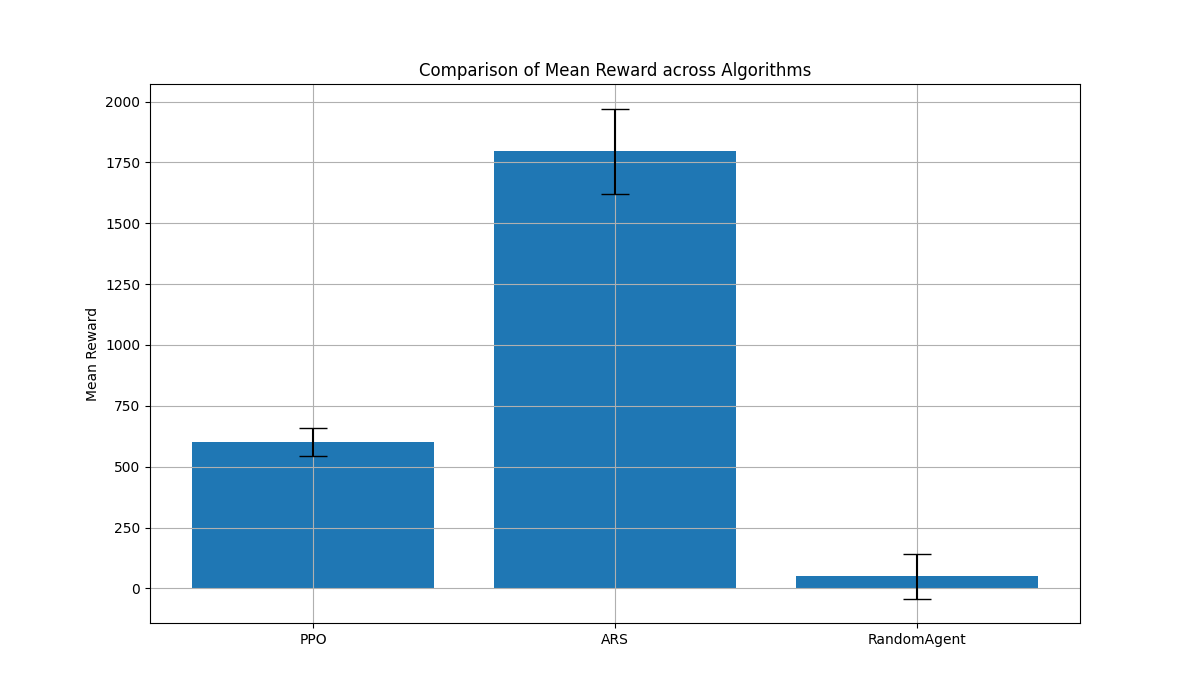
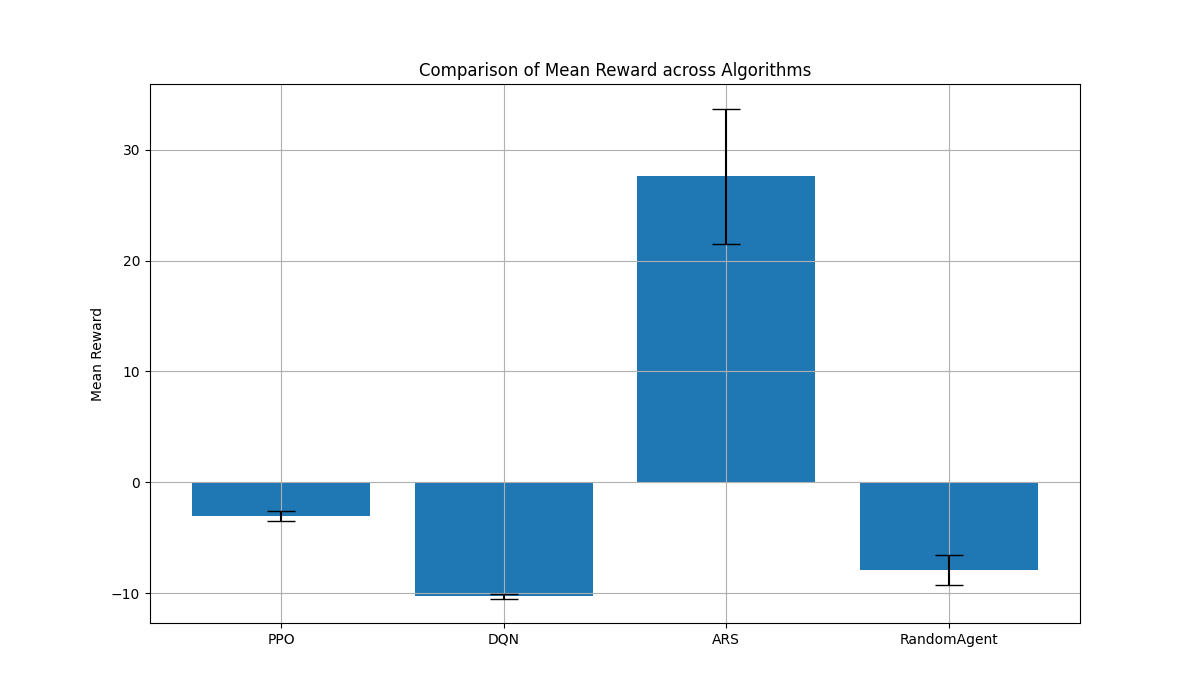
update reward irrigation

diff --git a/train.py b/train.py
@@ -5,6 +5,7 @@ from stable_baselines3 import PPO, DQN
 from stable_baselines3.common.vec_env import DummyVecEnv
 from stable_baselines3.common.callbacks import BaseCallback
 from stable_baselines3.common.evaluation import evaluate_policy
+from stable_baselines3.common.monitor import Monitor
 from sb3_contrib import ARS
 from aquacroprice.envs.rice import Rice
 
@@ -33,22 +34,22 @@ class RewardLoggingCallback(BaseCallback):
         if 'dones' in self.locals and any(self.locals['dones']):
             # Retrieve total irrigation at the end of the episode
             env = self.locals['env'].envs[0]
-            total_irrigation = env.model._outputs.final_stats['Seasonal irrigation (mm)'].mean()
+            total_irrigation = env.unwrapped.model._outputs.final_stats['Seasonal irrigation (mm)'].mean()
 
             # Log data at the end of the episode
             self.episode_rewards.append(self.current_rewards)
-            self.episode_schedules.append(env.irrigation_schedule)  # Store irrigation schedule
+            self.episode_schedules.append(env.unwrapped.irrigation_schedule)  # Store irrigation schedule
 
             # Check if this episode has the highest reward so far
             if self.current_rewards > self.highest_reward:
                 self.highest_reward = self.current_rewards
-                self.best_schedule = env.irrigation_schedule.copy()  # Store the best schedule
+                self.best_schedule = env.unwrapped.irrigation_schedule.copy()  # Store the best schedule
 
             self.experiment.log_metric("reward", self.current_rewards, step=len(self.episode_rewards))
 
             # Reset counters for the next episode
             self.current_rewards = 0
-            env.irrigation_schedule = []  # Clear schedule for next episode
+            env.unwrapped.irrigation_schedule = []  # Clear schedule for next episode
 
         return True
 
@@ -88,7 +89,7 @@ experiment = OfflineExperiment(
 )
 
 # Create the environment for training
-train_env = DummyVecEnv([lambda: Rice(mode='train', year1=1982, year2=2002)])
+train_env = DummyVecEnv([lambda: Monitor(Rice(mode='train', year1=1982, year2=2002))])
 
 # Custom reward logging callback
 reward_logging_callback = RewardLoggingCallback(experiment)
@@ -125,7 +126,7 @@ for name, model in algorithms.items():
     model.learn(total_timesteps=train_timesteps, callback=reward_logging_callback)
     
     # Create the environment for evaluation
-    eval_env = DummyVecEnv([lambda: Rice(mode='eval', year1=2003, year2=2018)])
+    eval_env = DummyVecEnv([lambda: Monitor(Rice(mode='eval', year1=2003, year2=2018))])
     
     print(f"Evaluating {name}...")
     mean_reward, std_reward = evaluate_policy(model, eval_env, n_eval_episodes=1000, return_episode_rewards=False)

diff --git a/aquacroprice/envs/rice.py b/aquacroprice/envs/rice.py
@@ -48,8 +48,8 @@ class Rice(gym.Env):
         # Define observation space: Includes weather-related observations
         self.observation_space = spaces.Box(low=-np.inf, high=np.inf, shape=(14,), dtype=np.float32)
         
-        self.action_depths = list(range(0, 26))  # This creates a list from 0 to 25
-        # self.action_depths = [0, 25]
+        # self.action_depths = list(range(0, 26))  # This creates a list from 0 to 25
+        self.action_depths = [0, 15, 30]
         self.action_space = spaces.Discrete(len(self.action_depths))  # Discrete action space with 25 actions
 
 
@@ -181,23 +181,11 @@ class Rice(gym.Env):
             dry_yield = self.model._outputs.final_stats['Dry yield (tonne/ha)'].mean()
             total_irrigation = self.model._outputs.final_stats['Seasonal irrigation (mm)'].mean()
 
-            # Calculate water efficiency
-            if total_irrigation > 0:
-                water_efficiency = dry_yield / total_irrigation
-            else:
-                water_efficiency = 0  # If no water is used, efficiency is zero
-
-            # Introduce a penalty for excessive irrigation
-            irrigation_penalty = total_irrigation * 0.01  # Penalty term proportional to total irrigation
-
-            # Adjusted reward structure focusing on water efficiency with an irrigation penalty
-            reward = (water_efficiency * 1000) - irrigation_penalty
+            reward = (dry_yield * 150) - (total_irrigation * 5)
 
             # Logging to help debug and understand the reward structure
             print(f"Dry Yield: {dry_yield}")
             print(f"Total Irrigation: {total_irrigation}")
-            print(f"Water Efficiency: {water_efficiency}")
-            print(f"Irrigation Penalty: {irrigation_penalty}")
             print(f"Final Reward: {reward}")
         
         info = dict()
